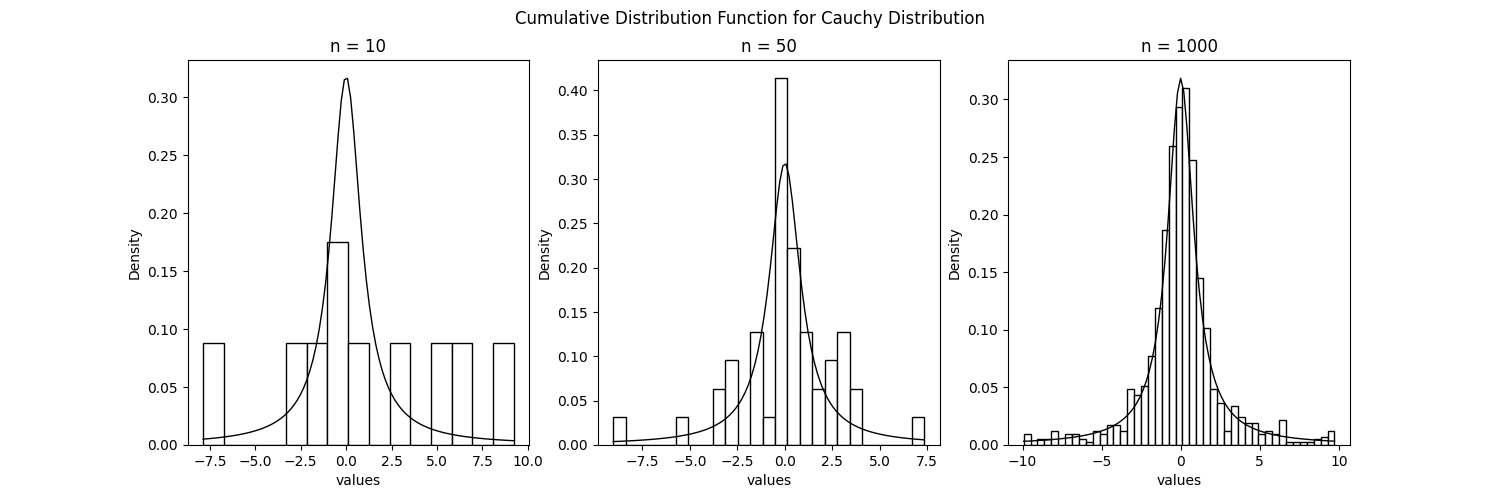
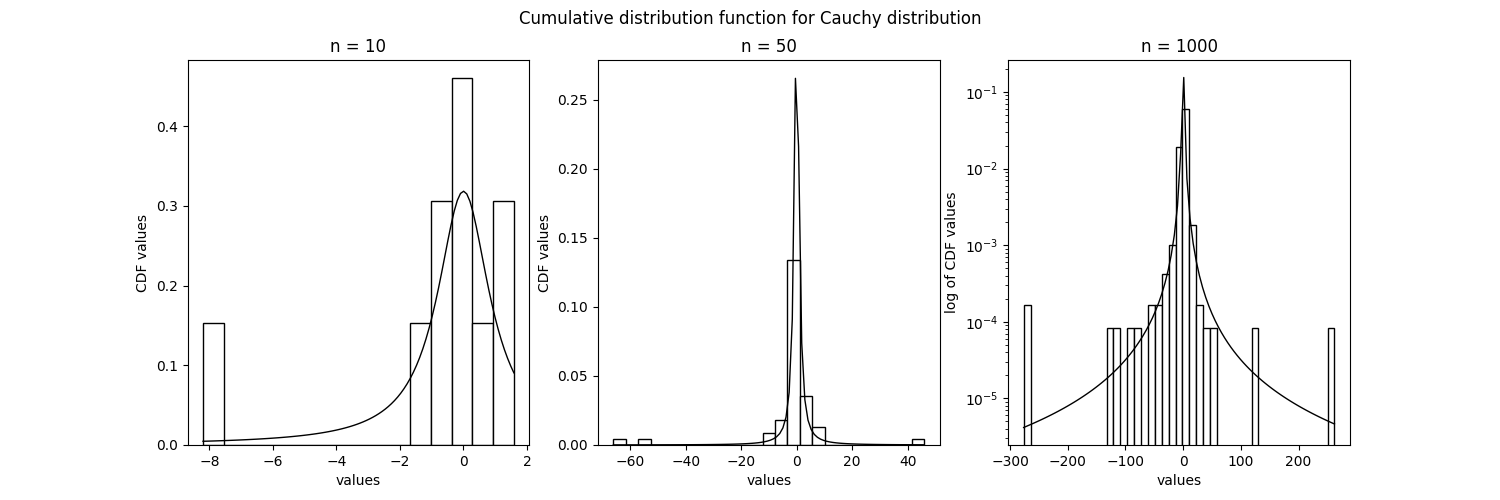
update lab_1

diff --git a/lab_1/charts.py b/lab_1/charts.py
@@ -6,38 +6,38 @@ from typing import List
 
 def print_graphics(N: List[int]) -> None:
     # Normal distribution
-    mu_normal = 0.0
-    var_normal = 1.0
+    mu_normal = 0.0 #  среднее значение (математическое ожидание)
+    var_normal = 1.0 # дисперсия (квадрат стандартного отклонения)
     sample_normal = [np.random.normal(mu_normal, var_normal, n) for n in N]
 
     # Cauchy distribution
-    mu_cauchy = 0.0
-    var_cauchy = 1.0
+    mu_cauchy = 0.0 # параметр сдвига распределения
+    var_cauchy = 1.0 # параметр масштаба
     sample_cauchy = [mu_cauchy + var_cauchy * np.random.standard_cauchy(n) for n in N]
 
     # Student's distribution
-    t_student = 3.0
+    t_student = 3.0  # число степеней свободы
     sample_student = [np.random.standard_t(t_student, n) for n in N]
 
     # Poisson distribution
-    mu_poisson = 10.0
+    mu_poisson = 10.0  # среднее число событий за единицу времени или пространства (дисперсия)
     sample_poisson = [np.random.poisson(mu_poisson, n) for n in N]
 
     # Uniform distribution
-    a_uniform = -np.sqrt(3)
+    a_uniform = -np.sqrt(3) # интервал [a, b]
     b_uniform = np.sqrt(3)
     sample_uniform = [np.random.uniform(a_uniform, b_uniform, n) for n in N]
 
     samples = [
         sample_normal,
-        [sample_cauchy[i][(np.abs(sample_cauchy[i]) <= 10)] for i in range(len(N))],  # to avoid outliers
-        [sample_student[i][(np.abs(sample_student[i]) <= 10)] for i in range(len(N))],  # to avoid outliers
+        sample_cauchy,
+        sample_student,
         sample_poisson,
         sample_uniform
     ]
 
     # Normal distribution
-    def calc_normal(x: float):
+    def calc_normal(x: float): # вычисляет значение плотности вероятности для нормального распределения
         return (1.0 / (var_normal * np.sqrt(2 * np.pi))) * np.exp(-0.5 * ((x - mu_normal) ** 2) / (var_normal ** 2))
 
     # Cauchy distribution
@@ -65,7 +65,7 @@ def print_graphics(N: List[int]) -> None:
 
     for j in range(len(samples)):
         plt.figure(figsize=(15, 5))
-        plt.suptitle(f'Cumulative Distribution Function for {names[j]} Distribution')
+        plt.suptitle(f'Cumulative distribution function for {names[j]} distribution')
         for i in range(len(N)):
             plt.subplot(100 + len(N) * 10 + i + 1)
             x_min = min(samples[j][i])
@@ -76,5 +76,9 @@ def print_graphics(N: List[int]) -> None:
             plt.plot(x, y, color='black', linewidth=1)
             plt.title(f'n = {N[i]}')
             plt.xlabel('values')
-            plt.ylabel('Density')
+            plt.ylabel('CDF values')
+            plt.yscale('linear')
+            if N[i] > 500 and names[j] == 'Cauchy':
+                plt.yscale('log')
+                plt.ylabel('log of CDF values')
         plt.show()
